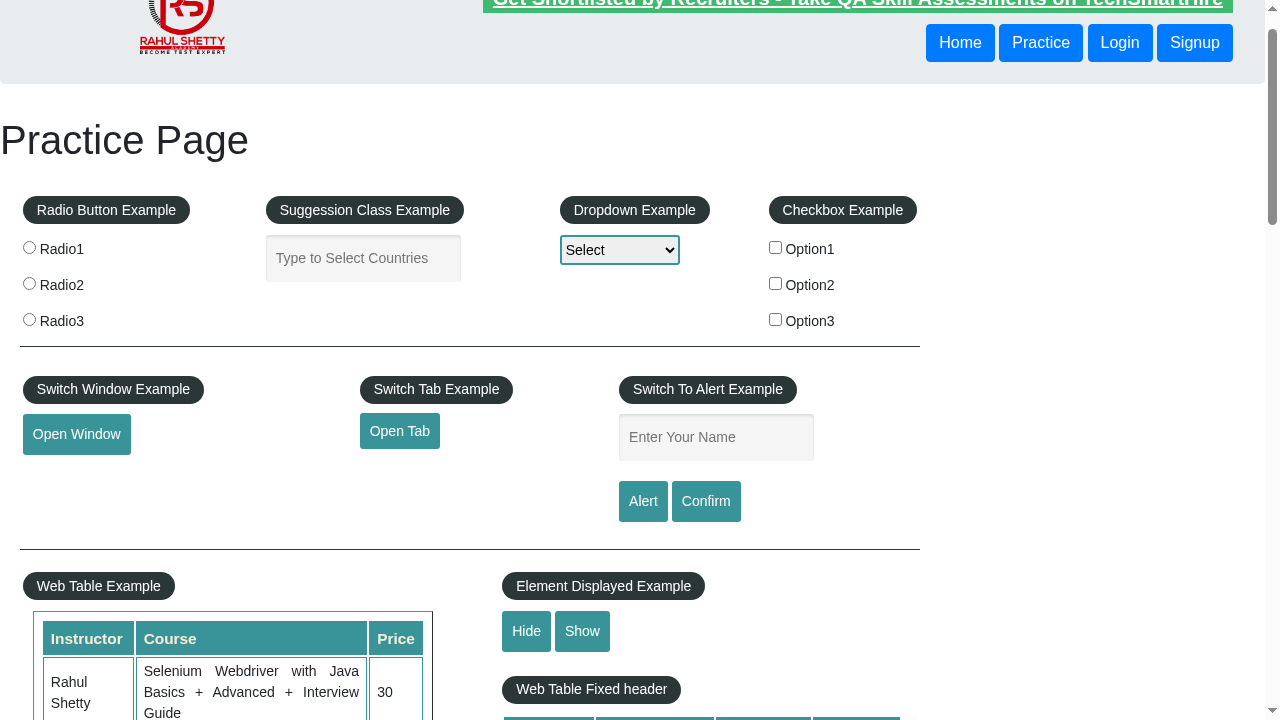
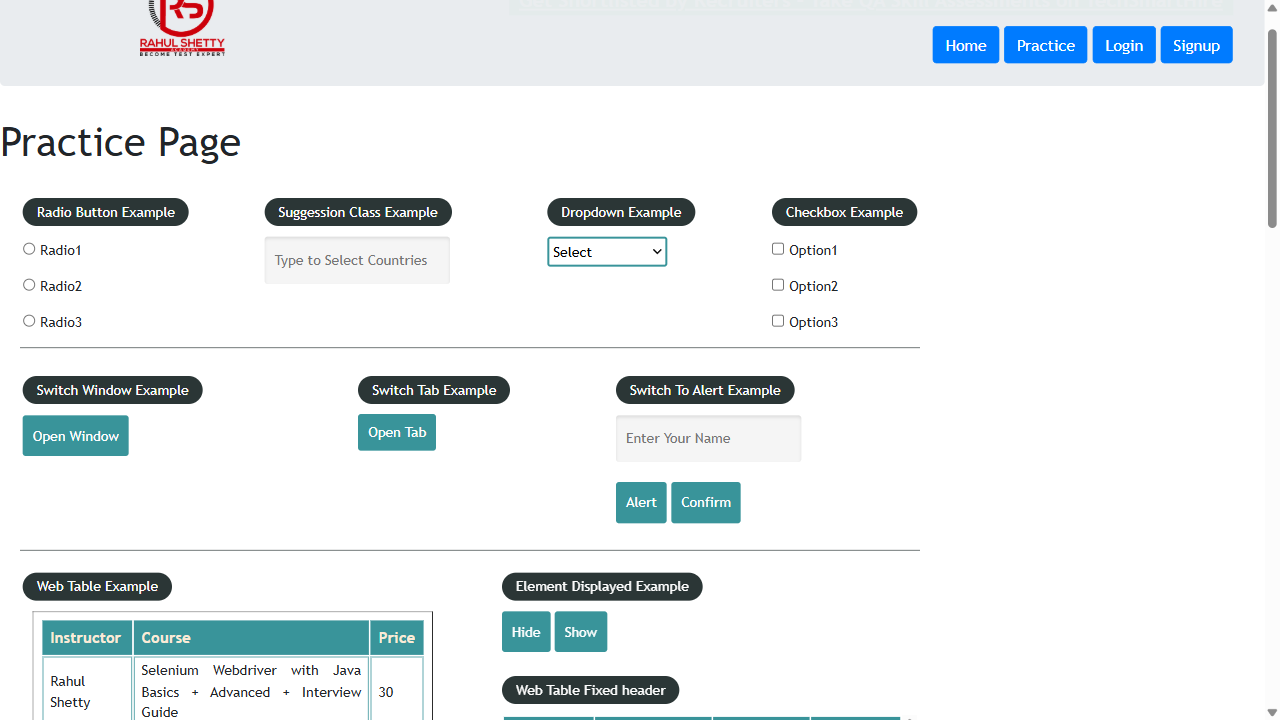
minor adjustment to test calendar.spec

diff --git a/tests/MoreValidation.spec.js b/tests/MoreValidation.spec.js
@@ -8,7 +8,7 @@ test("@Web Popup validations", async({page}) => {
     await expect(page.locator('#displayed-text')).toBeVisible();
     await page.locator('#hide-textbox').click();
     await expect(page.locator('#displayed-text')).toBeHidden();
-    await page.pause();
+    //await page.pause();
     await page.locator('#confirmbtn').click();
     await page.on('dialog', dialog => dialog.accept());   //java popup i.e. when there is no html or css locator for the popup events
     await page.locator('#mousehover').hover();

diff --git a/tests/calendar.spec.js b/tests/calendar.spec.js
@@ -13,6 +13,7 @@ test('Calendar Validation', async({page}) => {
     await page.locator('.react-calendar__navigation__label__labelText.react-calendar__navigation__label__labelText--from').click();
     await page.getByText(Year).click();
     await page.locator('.react-calendar__year-view__months__month').nth(Number(MonthNumber -1)).click();
+    //calendar spec
     await page.locator(`//abbr[text()='${Date}']`).click();
     const inputs =  page.locator('.react-date-picker__inputGroup__input');
  

diff --git a/tests/EventhubAssignment.spec.js b/tests/EventhubAssignment.spec.js
@@ -26,7 +26,7 @@ test('Eventhub Assignment', async({page}) => {
     await page.getByPlaceholder('0.00').fill('21.00');
     await page.getByText('Total Seats').fill('10');
     await page.locator('#add-event-btn').click();
-    await page.pause();
+    //await page.pause();
 
 
 
